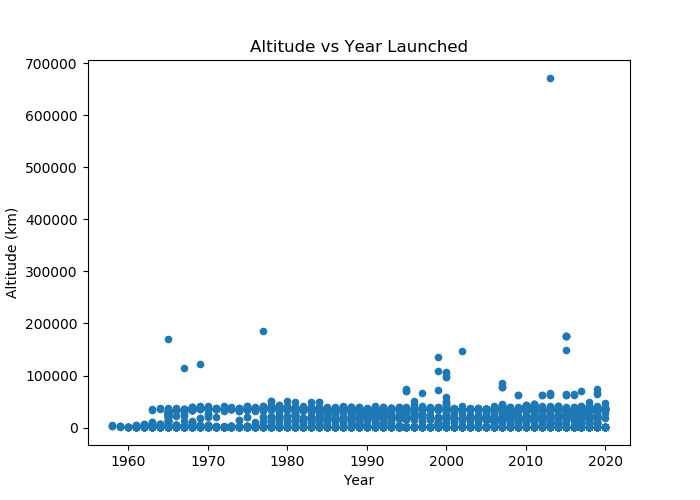
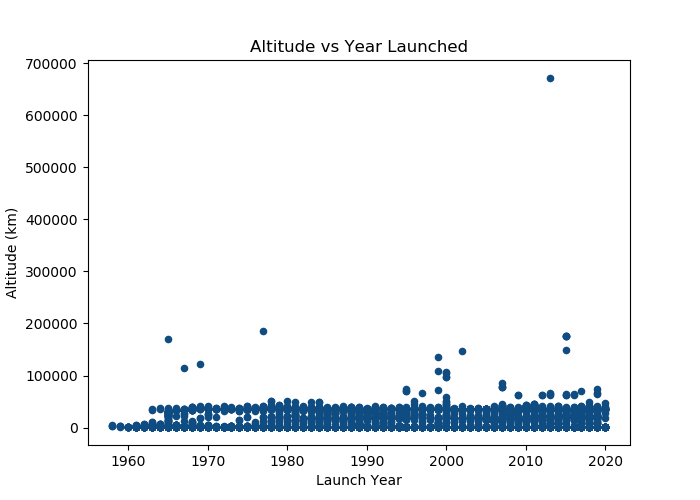
final data viz
unless someone wants different colors?

diff --git a/data_viz.py b/data_viz.py
@@ -16,55 +16,64 @@ from data_analysis import get_orbit_tally, get_launch_years_column
 from calculations import get_orbit_columns
 
 
-def bar_plot(data):
+def bar_plot_LEO(data):
     """
     takes a dataframe from process_data and creates a
     bar plot for count by launch year from dataframe
+    (for LEO)
     """
+    data = get_orbit_columns(data)
+    data = data[data['LEO']]
     data = data['InternationalDesignator']
     data = data.dropna()
     data = data.apply(get_launch_year)
     data = data.groupby(data).count()
-    data.plot(kind='bar', figsize=(17, 10))
-    plt.title("Orbital Debris Count Increase Per Year")
+    data.plot(kind='bar', figsize=(17, 10), color='#0f4c81')
+    plt.title("Orbital Debris Count Increase Per Year (LEO)")
     plt.xlabel('Launch Year')
     plt.ylabel('Count')
     plt.savefig('visualizations/count_by_launch_year.png')
 
 
-def total_line_and_scatter_plot(data):
+def total_line_and_scatter_plot_LEO(data):
     '''
     takes a dataframe from process_data
     creates line and bar plots for the 
     total count of objects present per year
+    (for LEO)
     '''
+    data = get_orbit_columns(data)
+    data = data[data['LEO']]
     data = get_launch_year_tally(data)
-    data.plot(kind='line', x='Year', y='Total')
-    plt.title("Orbital Debris Total Count Over Time")
+    data.plot(kind='line', x='Year', y='Total', color='#0f4c81')
+    plt.title("Orbital Debris Total Count Over Time (LEO)")
     plt.xlabel('Year')
     plt.ylabel('Count')
     plt.savefig('visualizations/total_count_over_years_line.png')
-    data.plot(kind='scatter', x='Year', y='Total')
-    plt.title("Orbital Debris Total Count Over Time")
+    data.plot(kind='scatter', x='Year', y='Total', color='#0f4c81')
+    plt.title("Orbital Debris Total Count Over Time (LEO)")
     plt.xlabel('Year')
     plt.ylabel('Count')
     plt.savefig('visualizations/total_count_over_years_scatter.png', figsize=(17, 10))
 
 
-def total_bar_stacked(data):
+def total_bar_stacked_LEO(data):
     '''
     from a dataframe of orbital data
     creates a stacked bar chart that shows 
     the total count of objects per year 
     highlighting the increase each year in
     a different color
+    (for LEO)
     '''
+    data = get_orbit_columns(data)
+    data = data[data['LEO']]
     data = get_launch_year_tally(data)
     data['PrevSum'] = data['Total'] - data['Count']
     fig, ax = plt.subplots(1, figsize=(17, 10))
-    data.plot(y='Total', x='Year', kind='bar', color="blue", ax=ax)
-    data.plot(y='PrevSum', x='Year', kind='bar', color="lightgreen", ax=ax)
-    plt.title("Orbital Debris Total Count Over Time")
+    data.plot(y='Total', x='Year', kind='bar', color="#ed6663", ax=ax)
+    data.plot(y='PrevSum', x='Year', kind='bar', color="#0f4c81", ax=ax)
+    plt.title("Orbital Debris Total Count Over Time (LEO)")
     plt.xlabel('Year')
     plt.ylabel('Count')
     fig.savefig('visualizations/stacked_bar_count.png')
@@ -111,10 +120,10 @@ def compare_years_by_orbit(data):
     df = df.fillna(0)
     # first plot
     fig, [ax1, ax2, ax3, ax4] = plt.subplots(4 , figsize=(17, 30), subplot_kw={'ylim': (0,16000)}) 
-    df.plot(kind='bar', y='LEO', x='LaunchYear', ax = ax1)
-    df.plot(kind='bar', y='MEO', x='LaunchYear', ax = ax2)
-    df.plot(kind='bar', y='GEO', x='LaunchYear', ax = ax3)
-    df.plot(kind='bar', y='HighEarthOrbit', x='LaunchYear', ax = ax4)
+    df.plot(kind='bar', y='LEO', x='LaunchYear', ax = ax1, color="#0f4c81")
+    df.plot(kind='bar', y='MEO', x='LaunchYear', ax = ax2, color="#0f4c81")
+    df.plot(kind='bar', y='GEO', x='LaunchYear', ax = ax3, color="#0f4c81")
+    df.plot(kind='bar', y='HighEarthOrbit', x='LaunchYear', ax = ax4, color="#0f4c81")
     ax1.set_title('LEO')
     ax2.set_title('MEO')
     ax3.set_title('GEO')
@@ -138,10 +147,10 @@ def compare_years_by_orbit(data):
     df['HighEarthOrbit'] = df['LEO'] + df['MEO'] + df['GEO'] + df['HighEarthOrbit']
     df['GEO'] = df['LEO'] + df['MEO'] + df['GEO']
     df['MEO'] =df['LEO'] + df['MEO']
-    df.plot(y='HighEarthOrbit', x='LaunchYear', kind='bar', color="blue", ax=ax)
-    df.plot(y='GEO', x='LaunchYear', kind='bar', color="lightgreen", ax=ax)
-    df.plot(y='MEO', x='LaunchYear', kind='bar', color="green", ax=ax)
-    df.plot(y='LEO', x='LaunchYear', kind='bar', color="lightblue", ax=ax)
+    df.plot(y='HighEarthOrbit', x='LaunchYear', kind='bar', color="#ffa372", ax=ax)
+    df.plot(y='GEO', x='LaunchYear', kind='bar', color="#ed6663", ax=ax)
+    df.plot(y='MEO', x='LaunchYear', kind='bar', color="#3282b8", ax=ax)
+    df.plot(y='LEO', x='LaunchYear', kind='bar', color="#0f4c81", ax=ax)
     plt.title("Orbital Debris Total Count Over Time, by Orbit")
     plt.xlabel('Year')
     plt.ylabel('Count')
@@ -156,7 +165,7 @@ def compare_by_alt(data):
     """
     data = get_launch_years_column(data)
     data = get_orbit_columns(data)
-    data.plot(kind='scatter', x='LaunchYear', y='Apoapsis', figsize=(7, 5))
+    data.plot(kind='scatter', x='LaunchYear', y='Apoapsis', figsize=(7, 5), color="#0f4c81")
     plt.title("Altitude vs Year Launched")
     plt.xlabel('Launch Year')
     plt.ylabel('Altitude (km)')
@@ -166,9 +175,9 @@ def compare_by_alt(data):
 
 def main():
     data = process_data('test.txt')
-    bar_plot(data)
-    total_line_and_scatter_plot(data)
-    total_bar_stacked(data)
+    bar_plot_LEO(data)
+    total_line_and_scatter_plot_LEO(data)
+    total_bar_stacked_LEO(data)
     orbit_plot()
     compare_years_by_orbit(data)
     compare_by_alt(data)

diff --git a/data_analysis.py b/data_analysis.py
@@ -72,6 +72,8 @@ def polynomial_fit_count(data):
     plot of the residuals.
     """
     # get the data in the right format
+    data = get_orbit_columns(data)
+    data = data[data['LEO']]
     data = get_launch_year_tally(data)
     x = np.array(list(data['Year']))
     y = np.array(list(data['Total']))
@@ -79,10 +81,12 @@ def polynomial_fit_count(data):
     count_func = np.poly1d(np.polyfit(x, y, 2))
     # plot the scatter plot & line of best fit
     fig, ax = plt.subplots(1)
-    plt.scatter(x, y)
     line = np.linspace(1958, 2020, 18000)
-    plt.scatter(x, y)
-    plt.plot(line, count_func(line))
+    plt.scatter(x, y, color='#ffa372')
+    plt.plot(line, count_func(line), color='#0f4c81')
+    plt.title("Polynomial Model of Count Per Year (LEO)")
+    plt.xlabel('Year')
+    plt.ylabel('Count')
     fig.savefig('poly_fit_count.png')
     # print some information about the model
     print('Polynomial fit for number of objects:')
@@ -94,7 +98,10 @@ def polynomial_fit_count(data):
     res = y - count_func(x)
     d = {'x': x, 'res': res}
     df = pd.DataFrame(d)
-    df.plot(kind='scatter', x='x', y='res', ax=ax)
+    df.plot(kind='scatter', x='x', y='res', ax=ax, color='#0f4c81')
+    plt.title("Object Count Model Residuals")
+    plt.xlabel('Year')
+    plt.ylabel('Error')
     fig.savefig('count_residuals.png')
 
 
@@ -125,6 +132,8 @@ def polynomial_fit_probability(data):
     plot of the residuals.
     """
     # get the data in the right format
+    data = get_orbit_columns(data)
+    data = data[data['LEO']]
     data = get_probability_tally(data)
     x = np.array(list(data['LaunchYear']))
     y = np.array(list(data['Probability']))
@@ -133,9 +142,14 @@ def polynomial_fit_probability(data):
     # plot the scatter plot & line of best fit
     # plt.scatter(x, y)
     fig, ax = plt.subplots(1)
-    plt.scatter(x, y, color='lightblue')
+    plt.scatter(x, y, color='#ffa372')
     line = np.linspace(1963, 2020, 6)
-    plt.plot(line, prob_func(line))
+    # m = (line*0) + (1/10000)
+    plt.plot(line, prob_func(line), color='#0f4c81')
+    # plt.plot(line, m, color='red')
+    plt.title("Polynomial Model of Probability of Impact Per Year (LEO)")
+    plt.xlabel('Year')
+    plt.ylabel('Count')
     fig.savefig('poly_fit_probability.png')
     # print some information about the model
     print()
@@ -148,7 +162,10 @@ def polynomial_fit_probability(data):
     res = y - prob_func(x)
     d = {'x': x, 'res': res}
     df = pd.DataFrame(d)
-    df.plot(kind='scatter', x='x', y='res', ax=ax)
+    df.plot(kind='scatter', x='x', y='res', ax=ax, color='#0f4c81')
+    plt.title("Probability Model Residuals")
+    plt.xlabel('Year')
+    plt.ylabel('Error')
     fig.savefig('probability_residuals.png')
     # something
 
